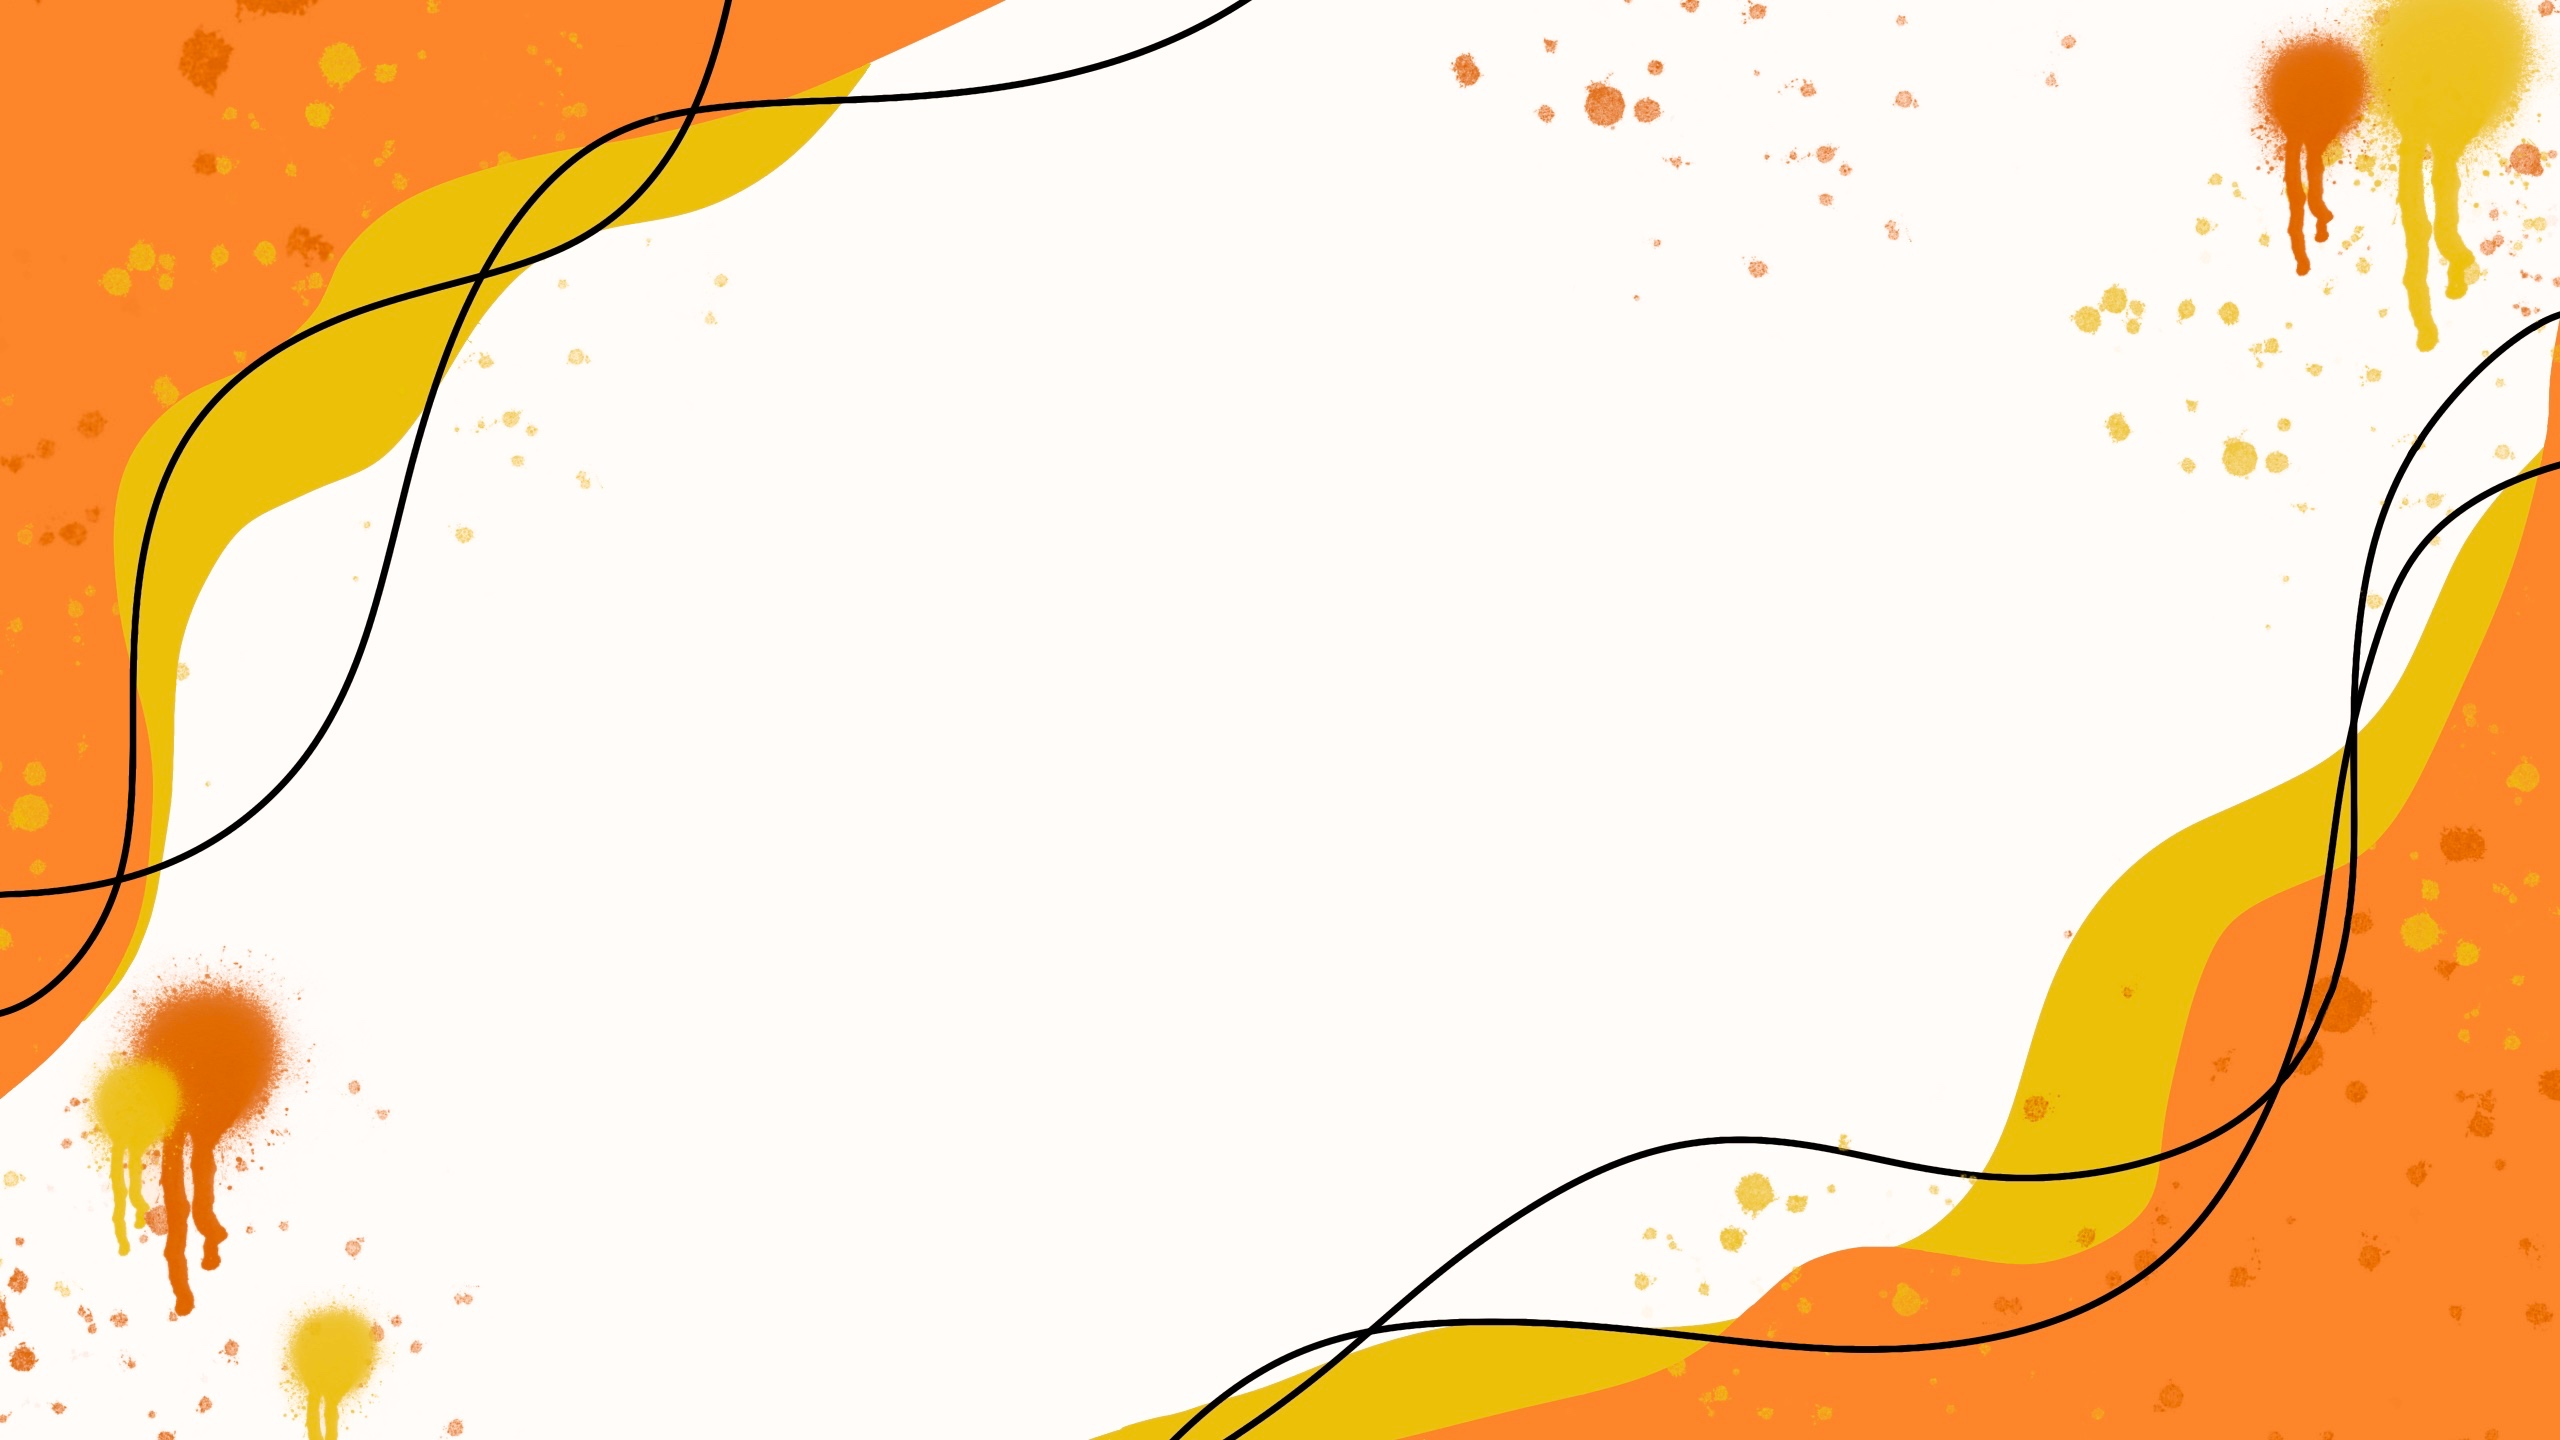
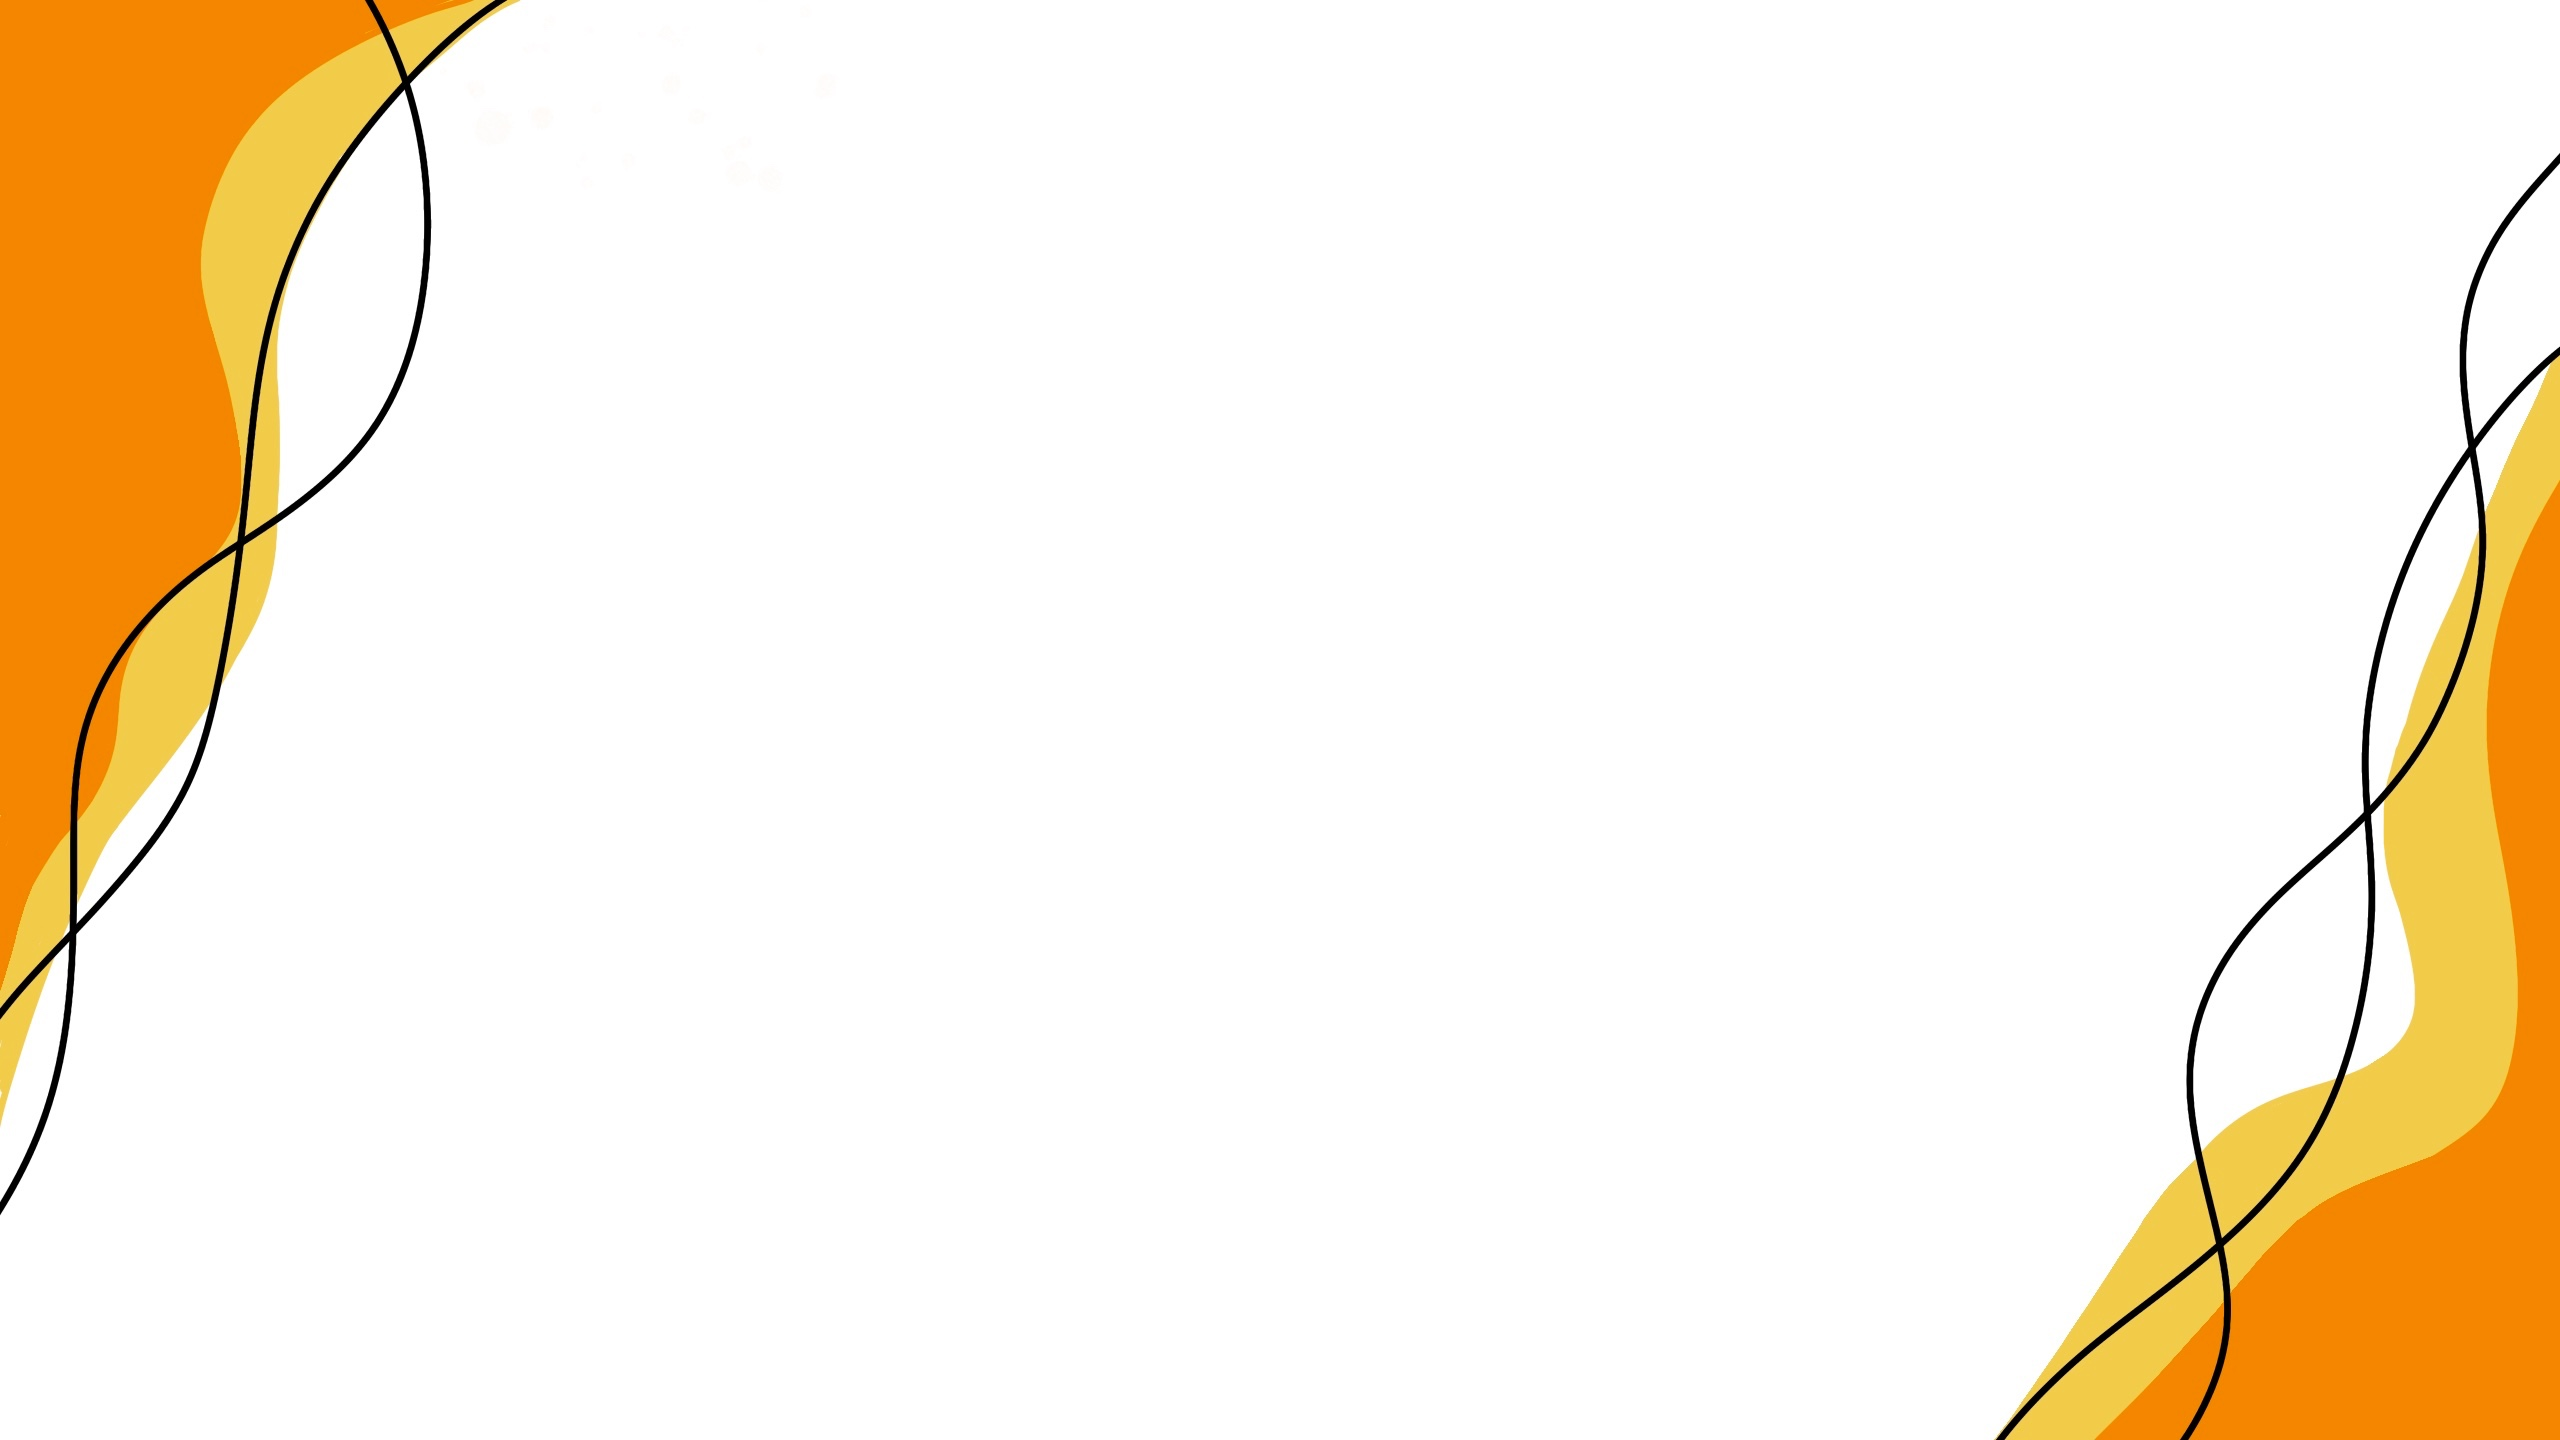
[TASK] fix bg

diff --git a/src/Pages/MainPage.tsx b/src/Pages/MainPage.tsx
@@ -7,16 +7,16 @@ import PersonalInformation from "../utils/personal-information.ts";
 import headerImg from "/Header.png";
 import titelUnterImg from "/titel_unter.png";
 
-function App(): React.ReactElement {
+export default function App(): React.ReactElement {
   return (
     <div
-      className="bg-base-200 min-h-screen flex flex-col bg-cover lg:bg-center xl:bg-left-bottom bg-no-repeat bg-fixed relative"
+      className="min-h-screen flex flex-col lg:bg-cover bg-no-repeat bg-fixed relative"
       style={{
         backgroundImage: "url('bg-new.jpg')",
       }}
     >
       {/* Dark overlay */}
-      <div className="absolute inset-0 bg-black bg-opacity-5 pointer-events-none"></div>
+      <div className="absolute inset-0 bg-black bg-opacity-10 pointer-events-none"></div>
 
       {/* Content with higher z-index */}
       <div className="relative z-10 flex flex-col min-h-screen">
@@ -118,5 +118,3 @@ function Footer(): React.ReactElement {
     </footer>
   );
 }
-
-export default App;
